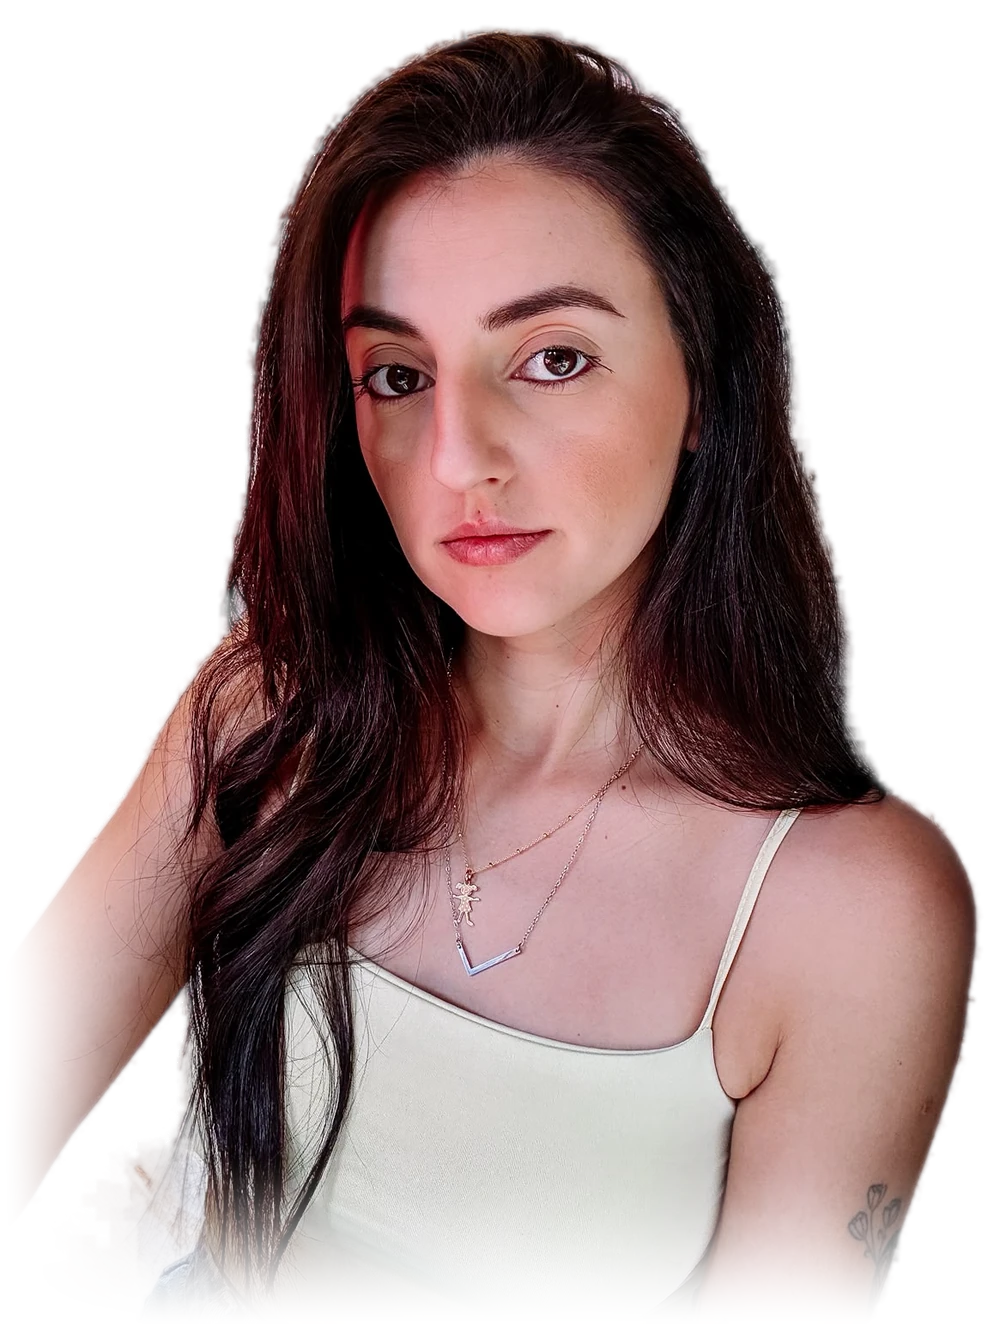
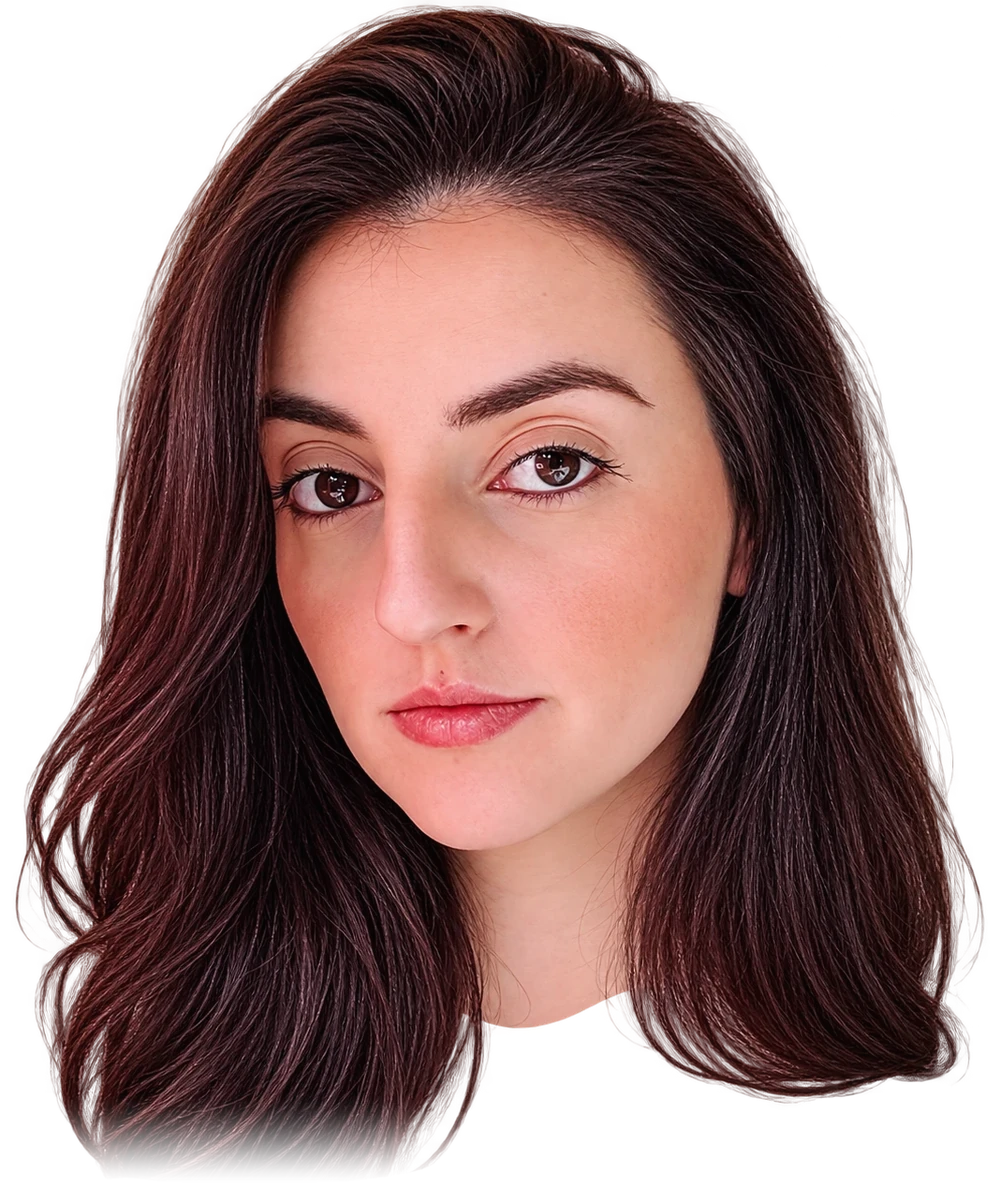
Capa: troca a foto pela cabeca recortada nova e ajusta o tamanho no celular

diff --git a/index.html b/index.html
@@ -335,10 +335,10 @@
     to{ opacity:1; transform:translate(-50%, 0); }
   }
   @media (max-width: 700px){
-    .capa{ height:clamp(600px, 100svh, 800px); padding-top:88px; }
+    .capa{ height:clamp(560px, 88svh, 720px); padding-top:88px; }
     .capa-titulo{ font-size:13.6vw; }
     .capa-titulo span{ display:block; }
-    .capa-retrato{ height:64%; bottom:88px; }
+    .capa-retrato{ height:min(64%, 110vw); bottom:88px; }
   }
   @media (prefers-reduced-motion: reduce){
     .capa-titulo, .capa-retrato, .capa-base{ animation:none; }
@@ -994,7 +994,7 @@
            JA RECORTADA (sem fundo, formato webp ou png) com o mesmo nome.
            A animacao de gelatina que segue o mouse esta em js/capa-retrato.js. -->
       <div class="capa-retrato" id="capaRetrato">
-        <img id="capaFoto" src="midia/capa-luana.webp" alt="Luana Coin, criadora UGC" width="1000" height="1331" fetchpriority="high">
+        <img id="capaFoto" src="midia/capa-luana.webp" alt="Luana Coin, criadora UGC" width="1000" height="1187" fetchpriority="high">
         <canvas class="capa-canvas" id="capaCanvas" aria-hidden="true"></canvas>
       </div>
 
